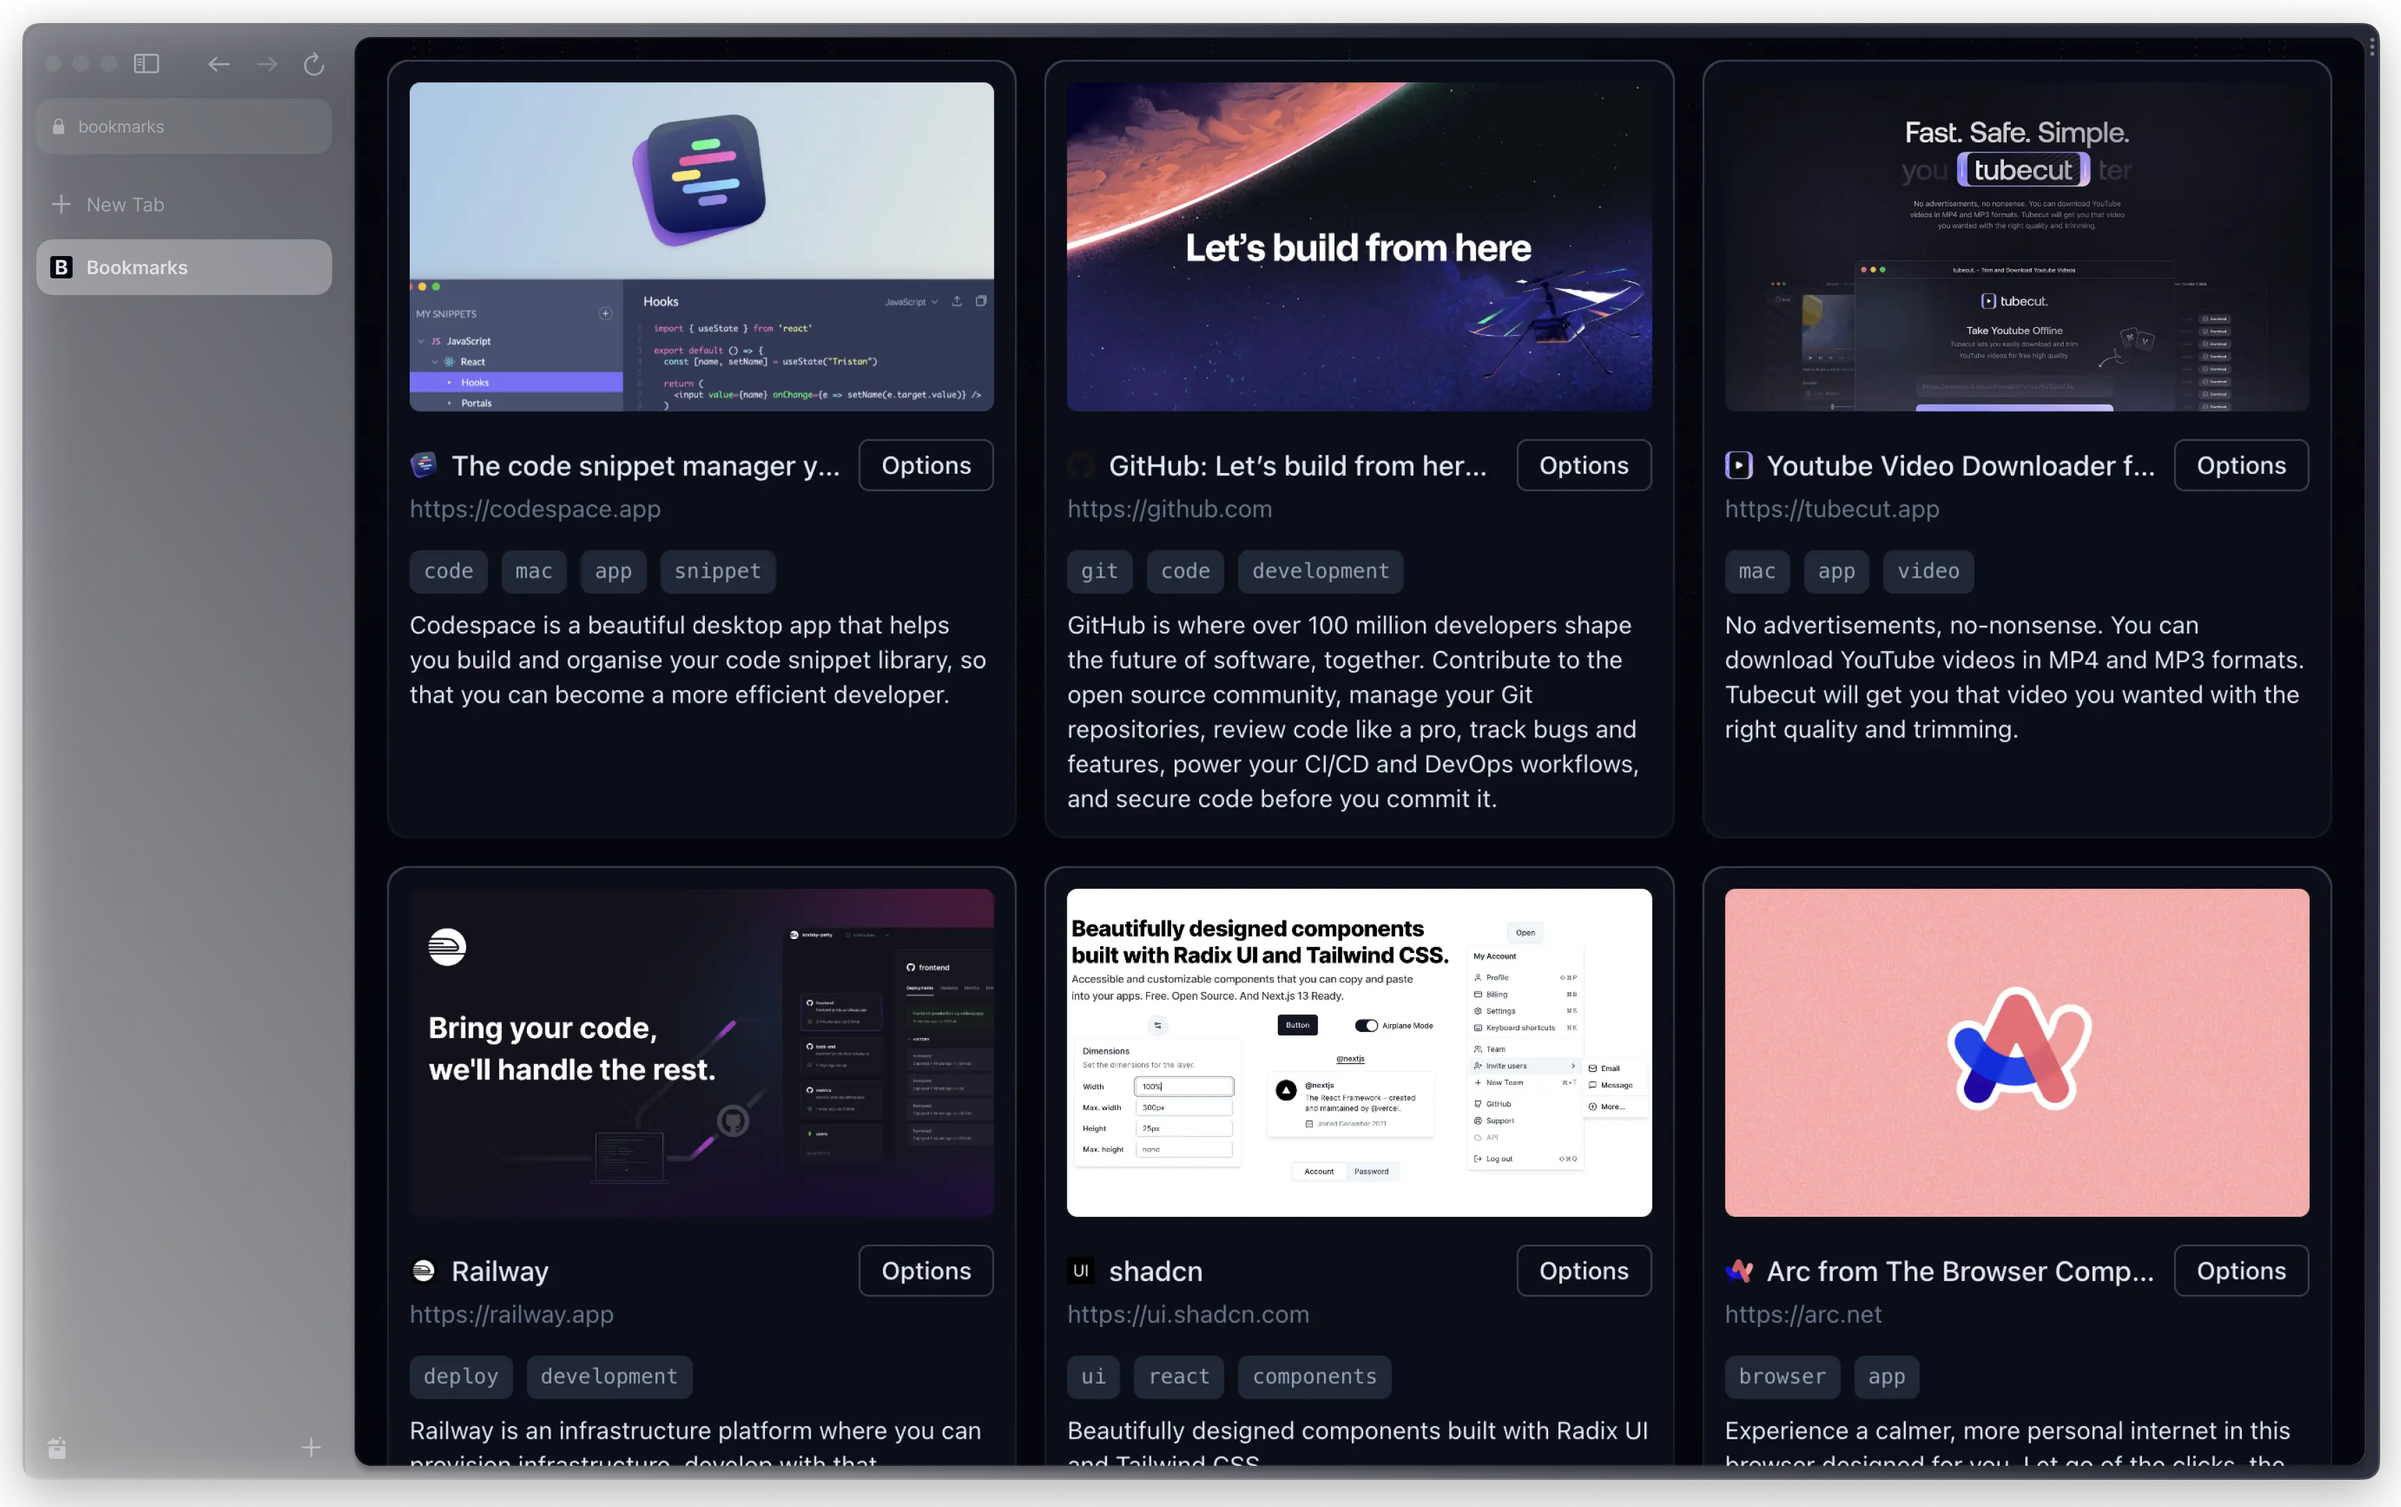
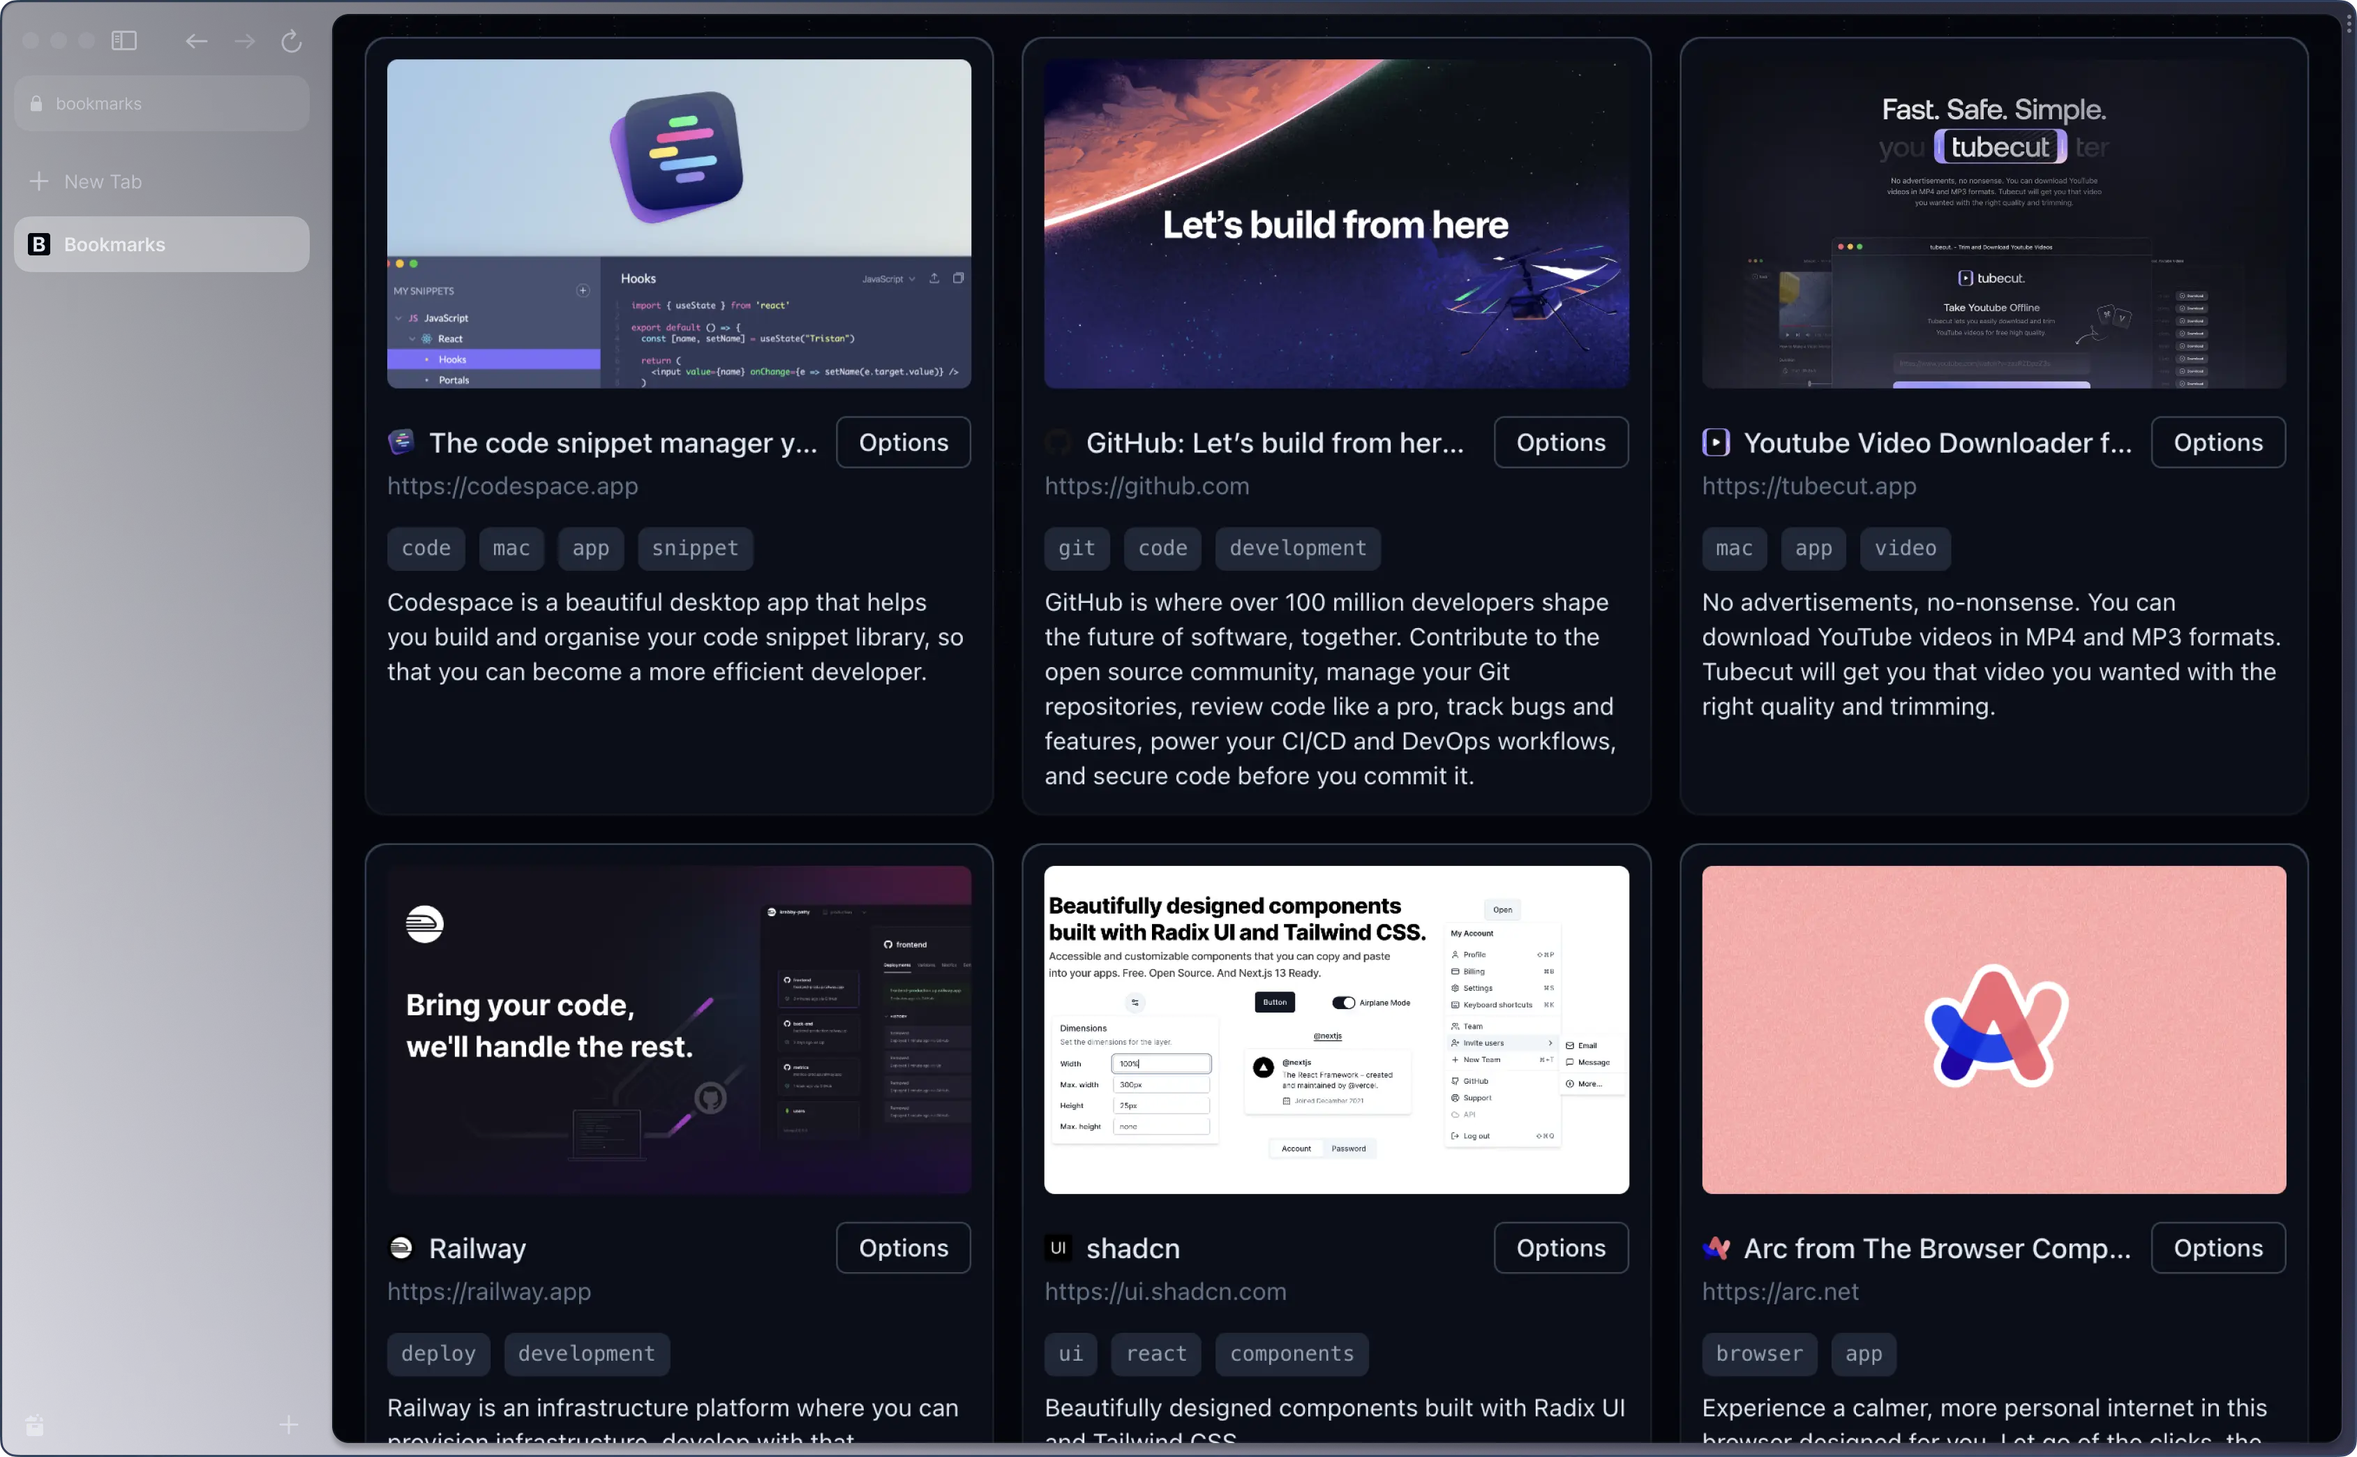
change scroll to top button, small ui fixes

diff --git a/src/components/Bookmark.tsx b/src/components/Bookmark.tsx
@@ -44,7 +44,7 @@ const Bookmark = ({ bookmark }: Props) => {
   return (
     <div className="p-[1px] rounded-xl bg-gradient-to-b shadow-lg from-slate-700 to-slate-800 hover:to-slate-700/50" ref={cardRef} onMouseMove={handleMouseMove} onMouseEnter={handleMouseEnter} onMouseLeave={handleMouseLeave}>
       <div className="relative flex flex-col h-full gap-4 p-3 bg-slate-900 rounded-xl">
-      <div className="absolute inset-0 transition-all duration-300 opacity-0 pointer-events-none rounded-xl" style={{ opacity, background: `radial-gradient(350px circle at ${position.x}px ${position.y}px, #f1f5f910, transparent)` }}>
+      <div className="absolute inset-0 transition-all duration-300 opacity-0 pointer-events-none rounded-xl" style={{ opacity, background: `radial-gradient(350px circle at ${position.x}px ${position.y}px, #312e6130, transparent)` }}>
       </div>
         <div className="z-10 overflow-hidden rounded-md aspect-video bg-slate-800">
           <img className="object-cover w-full h-full m-auto" src={bookmark.image ? bookmark.image : fallbackImage} alt={bookmark.title} onError={addImageFallback} />

diff --git a/src/App.tsx b/src/App.tsx
@@ -21,7 +21,7 @@ const App = () => {
   }, [])
 
   return (
-    <div className="relative flex flex-col pb-12 text-slate-200 bg-slate-950 bg-[radial-gradient(ellipse_at_top,_var(--tw-gradient-stops))] from-slate-700/50 to-50% to-slate-950 bg-[length:1200px_800px] bg-top bg-no-repeat selection:bg-slate-500/30 antialiased">
+    <div className="relative flex flex-col pb-12 text-slate-200 bg-slate-950 bg-[radial-gradient(ellipse_at_top,_var(--tw-gradient-stops))] from-slate-700/50 to-50% to-slate-950 bg-[length:1400px_1000px] bg-top bg-no-repeat selection:bg-slate-500/30 antialiased">
       <Header />
       <main className="flex flex-col items-center md:w-5/6 w-11/12 max-w-6xl gap-8 mx-auto min-h-screen bg-[length:1200px_800px] bg-top bg-no-repeat" style={{ backgroundImage: `url(${grid})`}}>
         <Headline />

diff --git a/src/components/ScrollToTop.tsx b/src/components/ScrollToTop.tsx
@@ -19,7 +19,7 @@ const ScrollToTop = () => {
   if (!isVisible) return null
 
   return (
-    <button onClick={scrollToTop} className="fixed z-20 flex items-center justify-center w-10 h-10 transition-all duration-300 rounded-full bottom-8 right-8 bg-slate-800 hover:bg-slate-700 hover:-translate-y-1" aria-label="scroll to top">
+    <button onClick={scrollToTop} className="fixed z-20 flex items-center justify-center w-10 h-10 transition-all duration-300 rounded-full bottom-8 right-8 bg-slate-800/80 hover:bg-slate-700/50 backdrop-blur-xl hover:-translate-y-1" aria-label="scroll to top">
       <ArrowUp width={16} />
     </button> 
   )

diff --git a/src/components/Header.tsx b/src/components/Header.tsx
@@ -18,7 +18,7 @@ const Header = () => {
         }
         <Login />
       </div>
-      { session && <span className="absolute bottom-[-1px] w-full h-[1px] bg-slate-400 duration-500" style={{ transform: `translateX(${completion - 100}%)`}}></span> }
+      { session && <span className="absolute bottom-[-1px] w-full h-[1px] bg-slate-400 duration-300" style={{ transform: `translateX(${completion - 100}%)`}}></span> }
     </header>
   )
 }

diff --git a/src/components/Headline.tsx b/src/components/Headline.tsx
@@ -1,7 +1,7 @@
 const Headline = () => {
   return (
     <div className="flex flex-col gap-2 mt-20 mb-8 text-center text-transparent from-slate-400 via-slate-200 to-slate-400 bg-gradient-to-r bg-clip-text">
-      <h1 className="text-5xl font-bold sm:text-7xl">Bookmarks</h1>
+      <h1 className="text-6xl font-bold sm:text-7xl">Bookmarks</h1>
       <p className="text-lg break-words">Say goodbye to messy bookmarks!</p>
     </div>
   )

diff --git a/src/components/BookmarkDropdown.tsx b/src/components/BookmarkDropdown.tsx
@@ -17,7 +17,7 @@ const BookmarkDropdown = ({ bookmark }: Props) => {
 
   const copyUrl = (url: string) => {
     copy(url)
-    toast("URL copied to clipboard!", {style: { backgroundColor: "#04060e" }})
+    toast("URL copied to clipboard!", {style: { backgroundColor: "#04060e", borderColor: "#334155" }})
   }
 
   const closeModal = () => setIsModalOpen(false)
